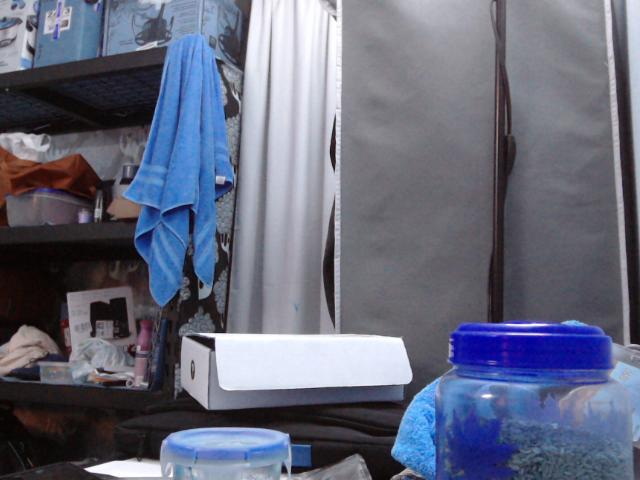
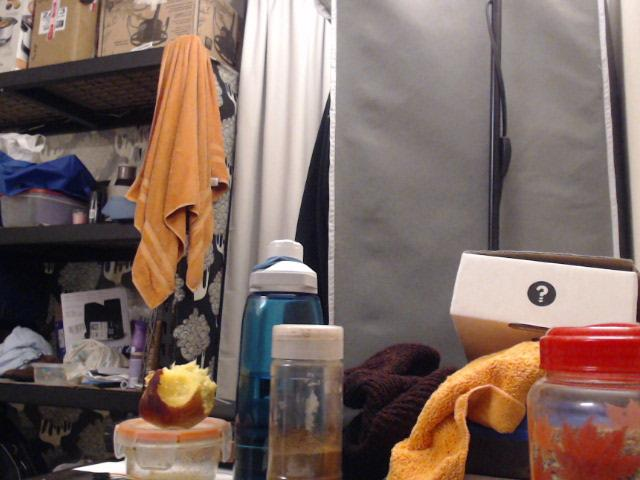
geotag and inference working

diff --git a/parallelprocesses/295B/inference.py b/parallelprocesses/295B/inference.py
@@ -1,0 +1,137 @@
+# Python modules
+import mmap
+import numpy as np
+import cv2
+import os
+import sys
+import hashlib
+from PIL import Image
+# 3rd party modules
+import posix_ipc
+
+# Utils for this demo
+import utils
+
+sys.path.append(os.path.join('/home/nvidia/darknet/','python'))
+import darknet as dn
+PY_MAJOR_VERSION = sys.version_info[0]
+
+params = utils.read_params()
+
+global cam, classifier_list, images, classifier, path, dstdir, images_list_file, camera_list, labels_list, cur_location, client, home, net, meta
+
+#Check if the shared memory and semaphore exists
+while 1:
+    try:
+        memory = posix_ipc.SharedMemory(params["SHARED_MEMORY_NAME"])
+        semaphore = posix_ipc.Semaphore(params["SEMAPHORE_NAME"])
+    except posix_ipc.ExistentialError:
+        continue
+    
+    break
+
+# MMap the shared memory
+mapfile = mmap.mmap(memory.fd, memory.size)
+# Once I've mmapped the file descriptor, I can close it without
+# interfering with the mmap. This also demonstrates that os.close() is a
+# perfectly legitimate alternative to the SharedMemory's close_fd() method.
+os.close(memory.fd)
+
+def convert_PIL_to_cv2object(frame):
+#    nparr = np.fromstring(s)
+    open_cv_image = np.array(frame)
+    image = open_cv_image[:, :, ::-1].copy()
+#img_np = cv2.imdecode(nparr, cv2.IMREAD_COLOR) 
+    return image
+
+def load_all_config():
+    global cam, classifier_list, images, classifier, path, dstdir, images_list_file, camera_list, labels_list, cur_location, client, home, net, meta
+  
+
+def testing_illegal(frame, mydir_illegal):
+    global cam, classifier_list, images, classifier, path, dstdir, images_list_file, camera_list, labels_list, cur_location, client, home, net, meta
+    #Raw folder path
+    dn.set_gpu(0)
+    net = dn.load_net(bytes("/home/nvidia" + "/darknet/yolo-obj.cfg"), bytes("/home/nvidia" + "/darknet/yolo-obj_40000.weights"), 0)
+    meta = dn.load_meta(bytes("/home/nvidia" + "/darknet/obj.data"))
+  
+    #Classified folder path
+    folder_classified = mydir_illegal
+    count = 0
+    font = cv2.FONT_HERSHEY_SIMPLEX
+    labels_list = ['cart', 'electronics','furniture', 'mattress', 'sofa', 'trash_bags', 'trash'] 
+    chart_colors = [(204,102,51),(18,557,220),(0,153,255),(24,150,16),(175,175,246),(172,62,59),(198,153,0)]
+    #Perform detection for every image in the files list
+    images = []
+    classifier = []
+    classifier_list = []
+
+    image_cv2 = frame
+    cv2.imwrite("test_file.jpg", frame)    
+    r = dn.detect(net, meta, "test_file.jpg")	
+    print (r)
+    cnt = 0
+    if r != []:
+	while cnt < len(r):
+	    name = r[cnt][0]
+	    if name in labels_list:
+	    	i = labels_list.index(name)
+	    predict = r[cnt][1]
+	    #print (name+":"+str(predict))
+	    classifier.append(name)
+
+	    x = r[cnt][2][0]
+	    y = r[cnt][2][1]
+	    w = r[cnt][2][2]
+	    z = r[cnt][2][3]
+
+	    x_max = int(round((2*x+w)/2))
+	    x_min = int(round((2*x-w)/2))
+
+	    y_min = int(round((2*y-z)/2))
+	    y_max = int(round((2*y+z)/2))
+	    print (x_min, y_min, x_max, y_max)
+	    pixel_list = [ x_min, y_min, x_max, y_max]
+	    neg_index = [pixel_list.index(val) for val in pixel_list if val < 0]
+	    cv2.rectangle(image_cv2,(x_min,y_min),(x_max,y_max),(chart_colors[i]), 2)
+	    if neg_index == []:
+		cv2.rectangle(image_cv2,(x_min,y_min-24), (x_min+10*len(name),y_min),chart_colors[i],-1)
+		cv2.putText(image_cv2,name,(x_min,y_min-12), font, 0.5,(0,0,0),1,cv2.LINE_AA)
+	    else:
+		if (y_min < 0 and x_min > 0):
+		    cv2.rectangle(image_cv2,(x_min,0), (x_min+10*len(name),24),chart_colors[i],-1)
+		    cv2.putText(image_cv2,name,(x_min,12), font, 0.5,(0,0,0),1,cv2.LINE_AA)
+		elif (x_min < 0 and y_min > 0):
+		    cv2.rectangle(image_cv2,(0,y_min-24), (10*len(name),y_min),chart_colors[i],-1)
+		    cv2.putText(image_cv2,name,(0,y_min-12), font, 0.5,(0,0,0),1,cv2.LINE_AA)
+		elif (x_min < 0 and y_min < 0):
+		    cv2.rectangle(image_cv2,(0,24), (10*len(name),48),chart_colors[i],-1)
+		    cv2.putText(image_cv2,name,(0,12), font, 0.5,(0,0,0),1,cv2.LINE_AA)
+            #cv2.imshow('image',image_cv2)
+	    #cropped = image.crop((x_min, y_min+20, x_max, y_max))
+	    cnt+=1
+	classifier_list.append(" ".join(set(classifier)))
+	count += 1
+	saving_path = folder_classified+ name +"_"+ str(count) + ".jpg"
+	print (saving_path)
+	images.append(saving_path)
+	#file1.write(name+",")
+	cv2.imwrite(saving_path,image_cv2)
+	cv2.destroyAllWindows()
+#file1.write("\n")
+
+
+while(1):
+    semaphore.acquire()
+    print("Process 2") 
+    s = utils.read_from_memory(mapfile)
+    #im = convert_bytes_to_cv2object(s)
+    frame = Image.frombytes('RGB',(640,480),s,'raw')
+    #frame.show()
+    im = convert_PIL_to_cv2object(frame)
+    #cv2.imshow('jaimatadi',im)
+    #cv2.waitKey()
+    semaphore.release()
+    testing_illegal(im, "./")
+
+

diff --git a/parallelprocesses/295B/geo_tagging.py b/parallelprocesses/295B/geo_tagging.py
@@ -4,7 +4,7 @@
 #This file calls read.py and geotagging.py which initializes the uart interface for the UBlox SAM-M8Q GPS sensor and embeds location in .jpg files 
 
 
-
+import numpy as np
 import io 
 from PIL import Image
 import piexif
@@ -26,15 +26,24 @@ if(not os.path.exists(PATH)):
 
 image_width = 1280
 image_height = 720
-video_dev = 1
+video_dev = 0
 
 cam = Camera(image_height, image_width)
 cam.cap = cv2.VideoCapture(video_dev)
+#cam.open_cam_usb(video_dev)
 if not cam.cap.isOpened():
     sys.exit(1)
 
 frame = cam.capture_image()
+frame = cv2.cvtColor(frame, cv2.COLOR_BGR2RGB)
 frame = Image.fromarray(frame) #convert opencv image to PIL image
+
+#open_cv_image = np.array(frame)
+#image = open_cv_image[:, :, ::-1].copy()
+#cv2.imshow('title',image)
+#cv2.waitKey()    
+
+#frame.show()
 
 def geotag(uartdevice):
     ser= gt.initialize_uart(uartdevice)

diff --git a/parallelprocesses/295B/geotag_1stprocess.py b/parallelprocesses/295B/geotag_1stprocess.py
@@ -17,9 +17,6 @@ from camera import Camera
 import cv2
 import os
 
-device = "\dev\ttyTHS2"
-frame = gt.geotag(device)
-print(type(frame))
 py_major_version = sys.version_info[0]
 
 print("Geotagging starts")
@@ -37,13 +34,15 @@ mapfile = mmap.mmap(memory.fd, memory.size)
 ## interfering with the mmap.
 memory.close_fd()
 
-print(semaphore.value)
-semaphore.acquire()
-print(frame.size, frame.mode)
-image_to_be_written = frame.tobytes()
-frame.show()
-print(len(image_to_be_written))
-utils.write_to_memory(mapfile, image_to_be_written)
-semaphore.release()
+device = "\dev\ttyTHS2"
+while 1: 
+    frame = gt.geotag(device)
+    semaphore.acquire()
+    #print(frame.size, frame.mode)
+    image_to_be_written = frame.tobytes()
+    #frame.show()
+    #print(len(image_to_be_written))
+    utils.write_to_memory(mapfile, image_to_be_written)
+    semaphore.release()
 
 

diff --git a/parallelprocesses/295B/camera.py b/parallelprocesses/295B/camera.py
@@ -47,7 +47,7 @@ class Camera:
         ret, frame = self.cap.read()
         print "Capture Time: ", time.time() - capture_time
         if showImage:
-            show_image(frame, windowName)
+            self.show_image(frame, windowName)
         write_time = time.time()
         if fileName:
             cv2.imwrite(fileName, frame) 
